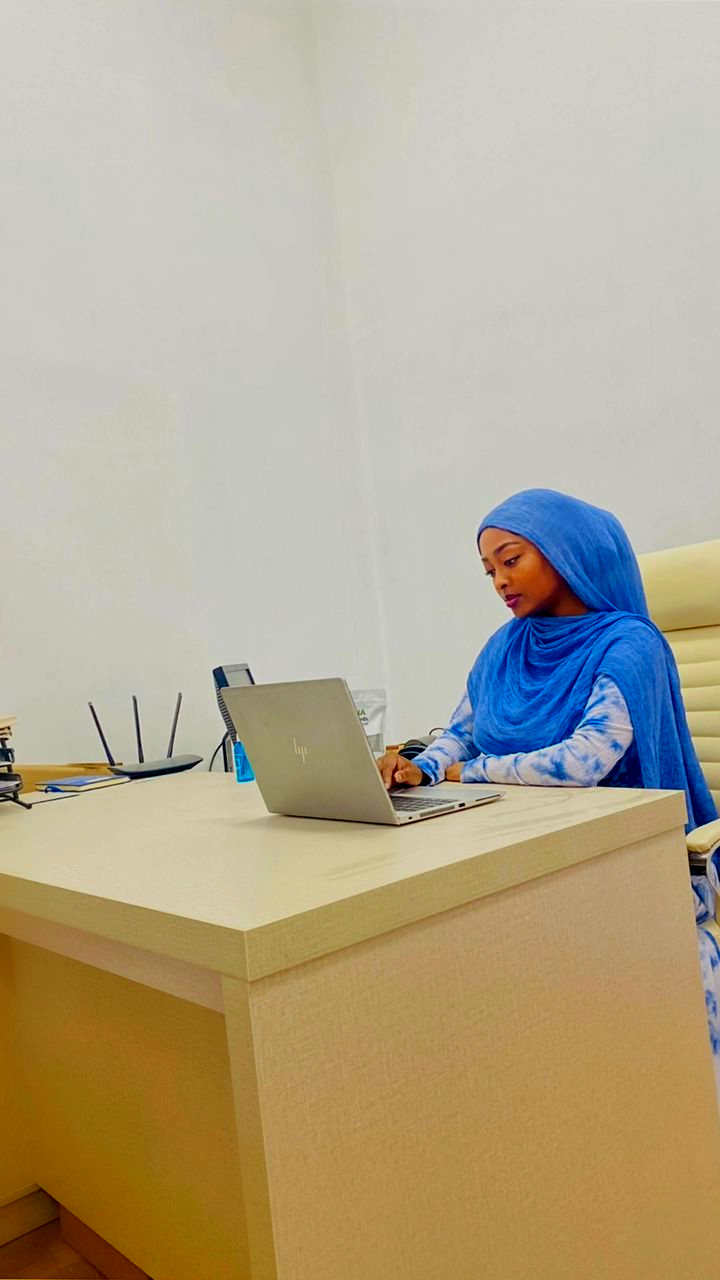
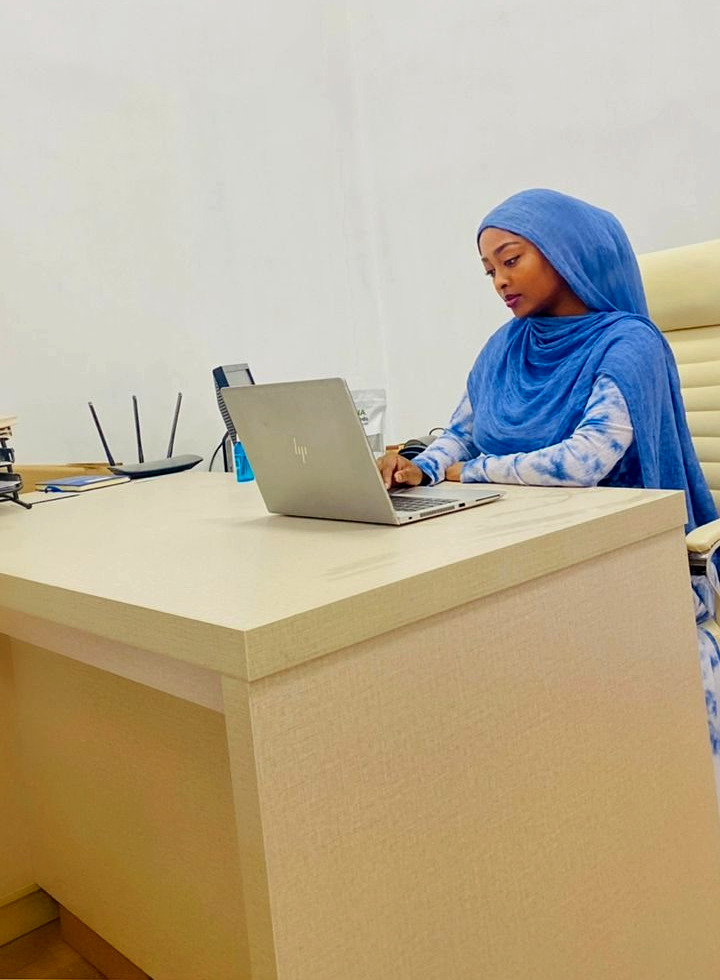
Le rythme se resserre, et deux photographies sont recadrees
Le premier ecran tenait ; le reste ne suivait pas. La cause etait la meme
partout : en retirant les filets je les avais remplaces par des ecarts enormes
— 96px entre deux produits, 160px entre deux sections — et la page etait
devenue une suite d'ilots. Un catalogue de negoce est dense ; la respiration
est dans les marges, pas entre chaque ligne.

  . le rythme se resserre de 25 % : 48/96/160 devient 36/72/120
  . le registre des exports se recompose. Le nom seul a gauche laissait un
    rectangle vide sous lui pendant que la description courait sur trois
    lignes a droite. Le fait remonte dans la colonne de gauche : les deux
    portent du contenu, et l'ecart entre deux entrees peut redescendre
  . accueil : 5469 -> 4851px, sans rien retirer

LES PHOTOGRAPHIES. Le cadrage etait mauvais, pas la photo. pharma-warehouse a
un tiers superieur de plafond nu : affichee en pleine largeur elle montrait
surtout ce vide. Recadree en 1080x608 elle montre les palettes, les cartons et
la ligne imprimee. team-desk avait le meme defaut a la verticale, un mur blanc
sur le tiers haut : 720x1280 devient 720x980.

La regle du site reste « on ne recadre jamais pour faire entrer une image dans
un gabarit » — ce sont deux gestes differents. Les recadrages sont declares un
par un dans l'outil, avec leur raison, et ne suivent aucune maquette.

ET LE SEUIL DISPARAIT. Le choix entre correction par canal et correction
neutre reposait sur un ecart de point blanc superieur a 12. C'etait un pari :
[…]

diff --git a/src/styles/tokens.css b/src/styles/tokens.css
@@ -61,10 +61,14 @@
   --wd-label: 68%;  --wd-text: 100%;  --wd-display: 120%;
   --tr-label: .06em;  --tr-text: 0;  --tr-display: -.015em;
 
-  /* ---- rythme : base 4, trois espacements de section ---------------- */
-  --s-block: 48px;
-  --s-section: 96px;
-  --s-band: 160px;
+  /* ---- rythme : base 4, trois espacements de section ----------------
+     Resserre de 25 %. En retirant les filets je les avais remplaces par des
+     ecarts enormes — 96px entre deux produits, 160px entre deux sections —
+     et la page etait devenue une suite d'ilots. Un catalogue de negoce est
+     dense : la respiration est dans les marges, pas entre chaque ligne. */
+  --s-block: 36px;
+  --s-section: 72px;
+  --s-band: 120px;
 
   /* ---- mouvement : deux courbes, quatre durees ---------------------- */
   --ease-out: cubic-bezier(.25, 1, .5, 1);
@@ -223,6 +227,10 @@ p, li, dd { text-wrap: pretty; }
    s'INDEXENT, sur deux colonnes serrees. Sortir le meme gabarit pour les deux
    etait une economie de code, jamais une decision de mise en page. */
 
+/* Le nom seul a gauche laissait un rectangle vide sous lui pendant que la
+   description courait sur trois lignes a droite. Le fait remonte donc dans la
+   colonne de gauche : les deux portent du contenu, et l'ecart entre deux
+   entrees peut redescendre. */
 .reg--wide  { display: grid; gap: var(--s-section); }
 .reg--index { display: grid; gap: var(--s-block) var(--col-gap); }
 @media (min-width: 900px) { .reg--index { grid-template-columns: 1fr 1fr; } }
